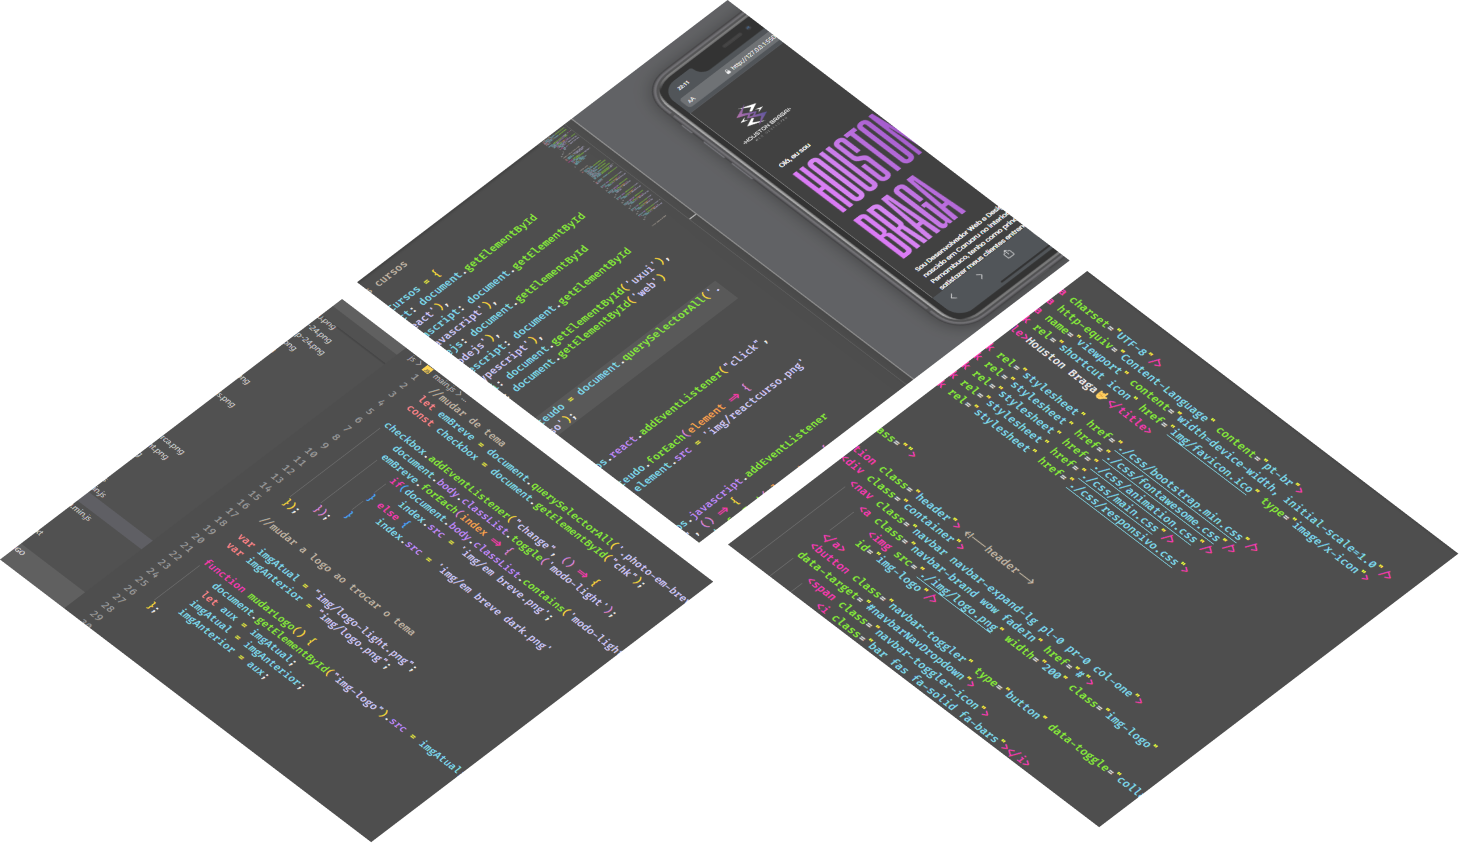
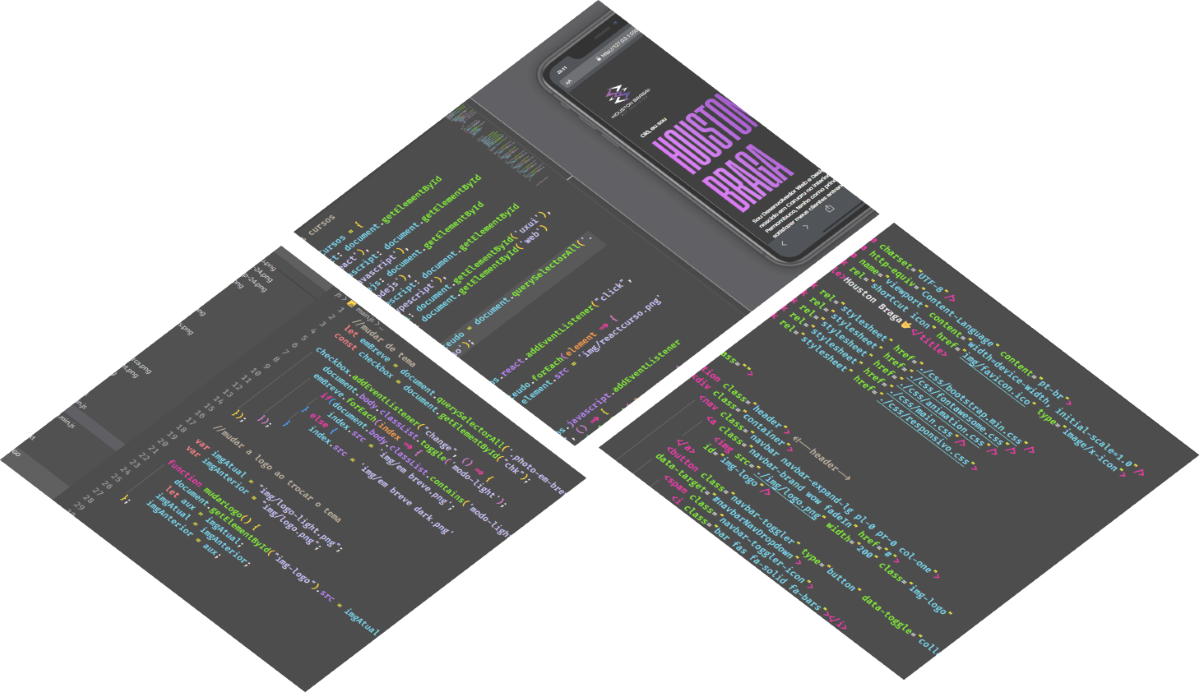
ajuste de responsividade 4

diff --git a/Css/main.css b/Css/main.css
@@ -83,9 +83,7 @@ body {
     color: #FAA819!important;
 }
 
-a.navbar-brand {
-    margin-left: -25px;
-}
+
 
 .nav-link {
     color: var(--color-white)!important;
@@ -128,8 +126,11 @@ a.navbar-brand {
 
 .home .img-hero {
     position: absolute;
-    top: -100px;
+    top: -50;
+    width: 100%;
     z-index: -1;
+    right: 0;
+    left: 0;
     overflow: hidden!important;
 }
 
@@ -546,8 +547,9 @@ a.navbar-brand {
 .grupo-sobre-lp {
     display: flex;
     flex-direction: row;
+    flex-wrap: wrap;
     gap: 20px;
-    justify-content: start;
+    justify-content: center;
 }
 
 .grupo-img-lp {

diff --git a/index.html b/index.html
@@ -49,8 +49,8 @@
     </section>
 
     <section class="home container-fluid" id="home">
-        <div class="img-hero pt-5 d-none">
-            <img src="img/Group 4.png"  style="opacity: 0.1;">
+        <div class="img-hero pt-5 ">
+            <img src="img/Group 4.png"  style="opacity: 0.1;" width="100%">
         </div>
         <h1>
             Conquiste o digital <br> e alcance o <span class="color-purple">sucesso</span>

diff --git a/Css/responsive.css b/Css/responsive.css
@@ -23,7 +23,7 @@
     }
 }
 
-@media screen and (width <= 991px) {
+@media screen and (max-width: 991px) {
     .grupo-sobre-lp {
         flex-direction: column;
         justify-content: center;
